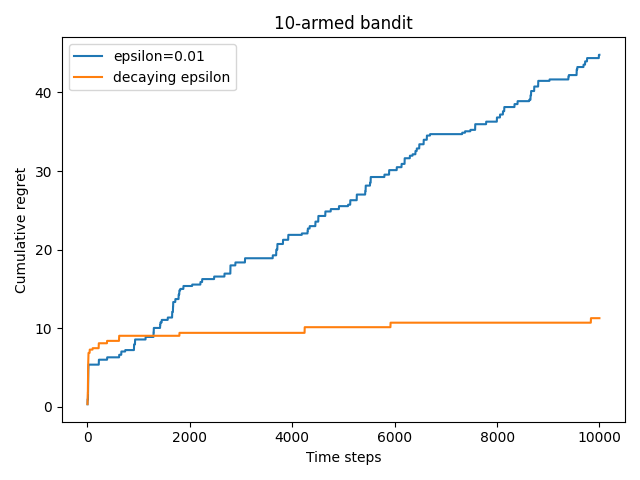
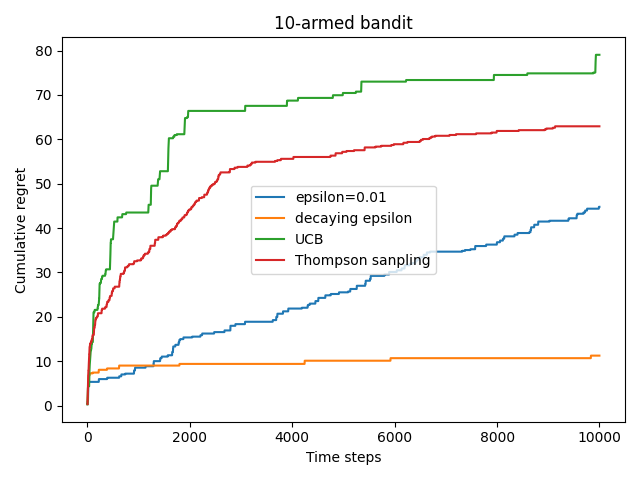
complete all the codes of ch02

diff --git a/scripts/ch02_bandit.py b/scripts/ch02_bandit.py
@@ -84,6 +84,39 @@ class DecayingEpsilonGreedy(Solver):
 
         return arm
 
+class UCB(Solver):
+    def __init__(self, bandit, coef, init_prob=1.0):
+        super(UCB, self).__init__(bandit)
+        self.total_count = 0
+        self.estimates = np.array([init_prob] * self.bandit.num_arms)
+        self.coef = coef
+
+    def run_one_step(self):
+        self.total_count += 1
+        ucb = self.estimates + self.coef * np.sqrt(np.log(self.total_count) / (2 * (self.counts + 1)))
+        arm = np.argmax(ucb)
+        r = self.bandit.step(arm)
+        self.estimates[arm] += 1.0 / (self.counts[arm] + 1) * (r - self.estimates[arm])
+
+        return arm
+
+class ThompsonSampling(Solver):
+    """Sample each arm's success probability from its Beta posterior."""
+
+    def __init__(self, bandit):
+        super(ThompsonSampling, self).__init__(bandit)
+        self._a = np.ones(self.bandit.num_arms)
+        self._b = np.ones(self.bandit.num_arms)
+
+    def run_one_step(self):
+        samples = np.random.beta(self._a, self._b)
+        arm = np.argmax(samples)
+        r = self.bandit.step(arm)
+
+        self._a[arm] += r
+        self._b[arm] += (1 - r)
+        return arm
+
 
 def plot_results(solvers, solver_names, output_path):
     for solver, name in zip(solvers, solver_names):
@@ -115,11 +148,15 @@ def main():
 
     solvers = [
         run_solver(EpsilonGreedy, bandit, num_steps, seed, epsilon=0.01),
-        run_solver(DecayingEpsilonGreedy, bandit, num_steps, seed)
+        run_solver(DecayingEpsilonGreedy, bandit, num_steps, seed),
+        run_solver(UCB, bandit, num_steps, seed, coef = 1),
+        run_solver(ThompsonSampling, bandit, num_steps, seed)
     ]
     solver_names = [
         "epsilon=0.01",
-        "decaying epsilon"
+        "decaying epsilon",
+        "UCB",
+        "Thompson sanpling"
     ]
     for name, solver in zip(solver_names, solvers):
         print(f"{name} 的累积懊悔为: {solver.regret:.4f}")